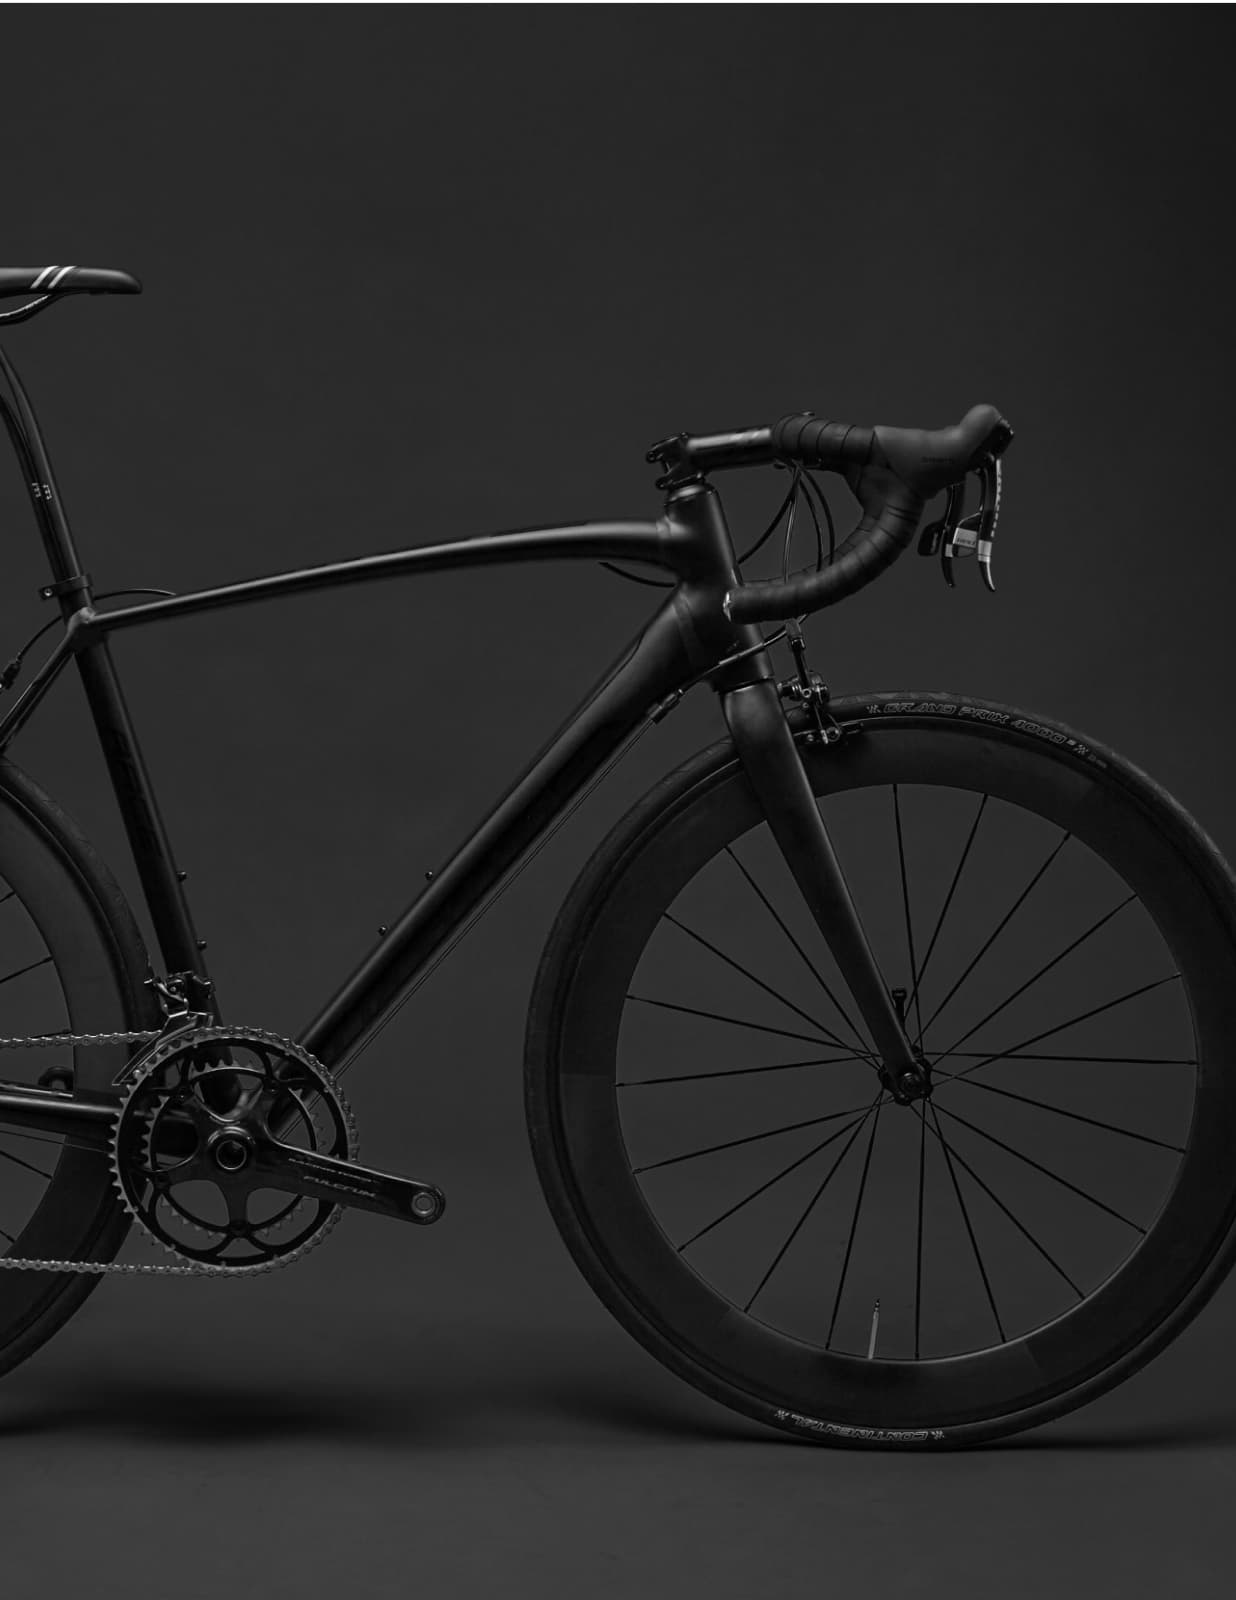
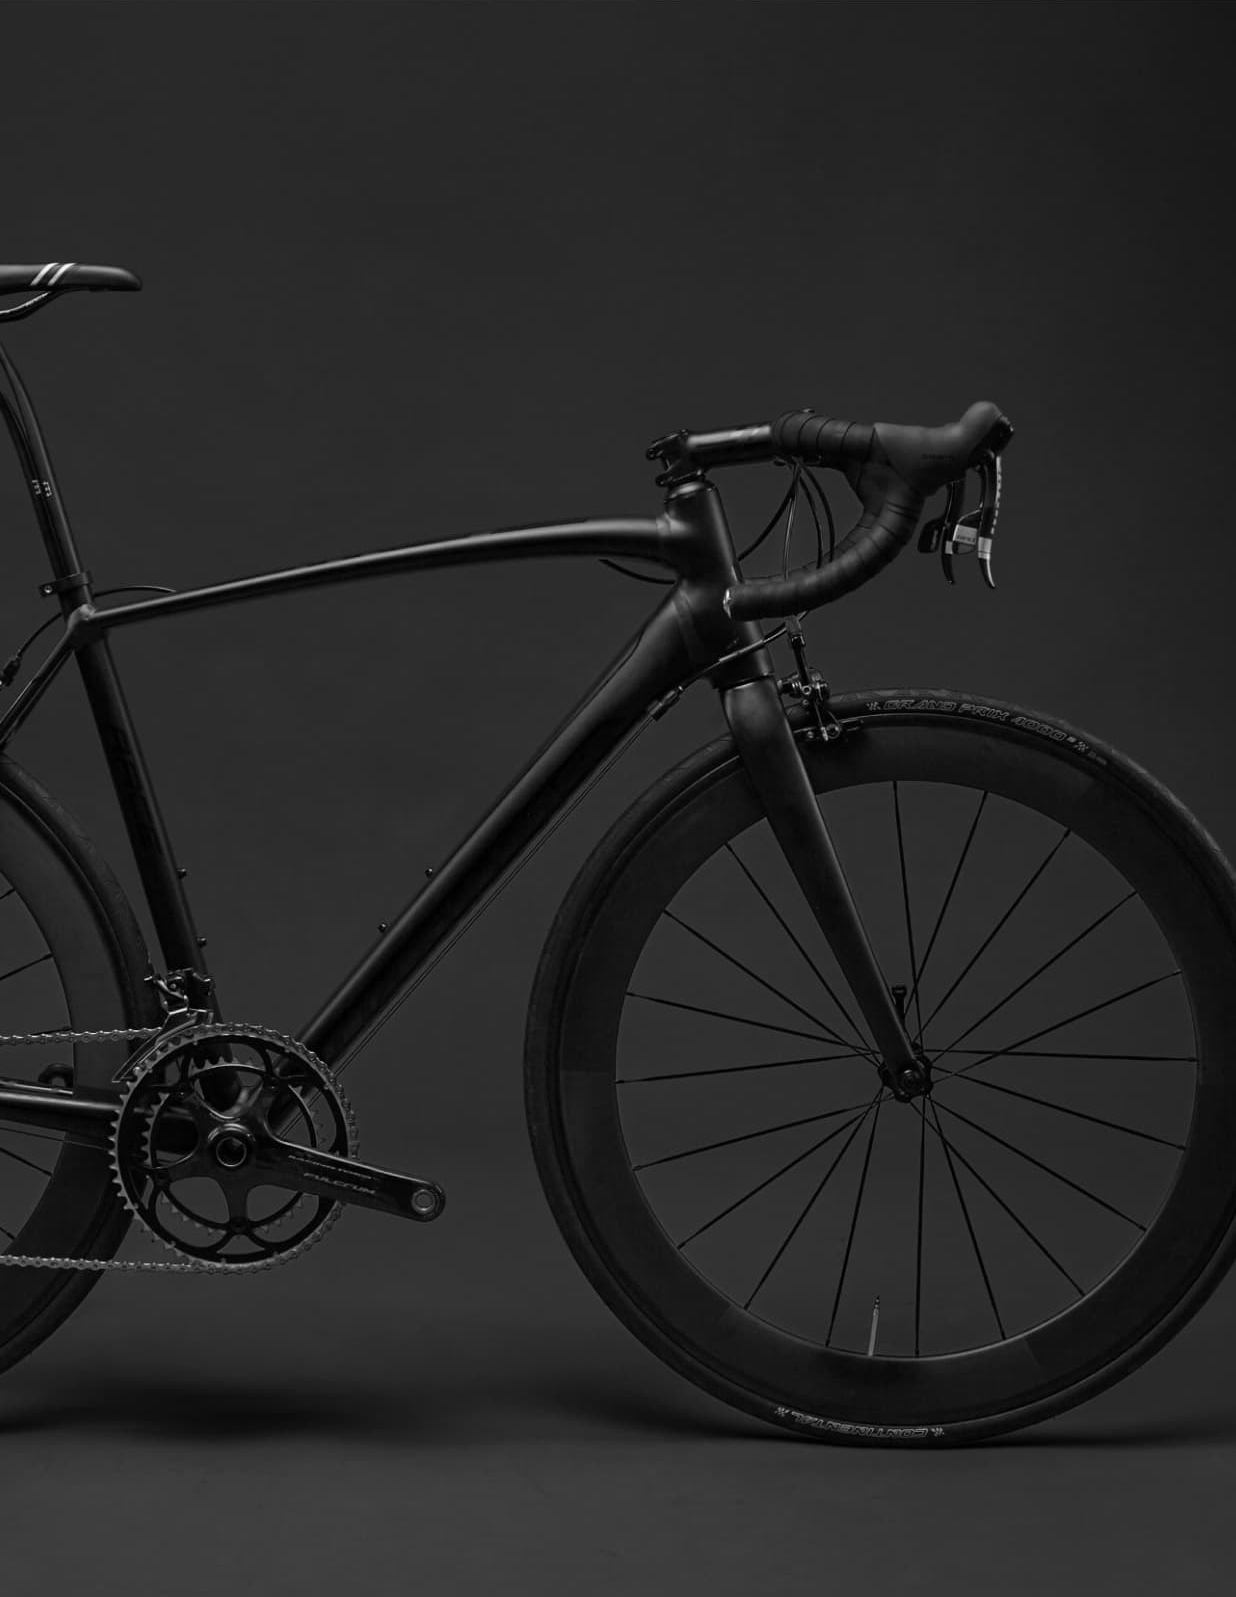
1006 Box Shadow

diff --git a/css/style.css b/css/style.css
@@ -1,20 +1,32 @@
 body {
   margin: 0px;
   font-family: Arial, Helvetica, sans-serif;
+  padding-bottom: 600px;
+}
+
+h1,
+ul,
+p {
+  margin: 0px;
+}
+
+ul {
+  padding: 0px;
+  list-style: none;
 }
 
 a {
   text-decoration: none;
+  color: inherit;
+}
+
+img {
+  width: 100%;
+  display: block;
 }
 
 .header-bg {
   background-color: #000;
-}
-
-ul {
-  margin: 0px;
-  padding: 0px;
-  list-style: none;
 }
 
 .header {
@@ -88,4 +100,70 @@ ul {
     padding: 8px 12px;
     font-size: 14px;
   }
+}
+
+.introducao-bg {
+  background: #000;
+  color: #fff;
+  box-shadow: inset 0 -120px #fff;
+}
+
+.introducao {
+  display: grid;
+  grid-template-columns: 1fr 1fr;
+  gap: 0 40px;
+  max-width: 1200px;
+  box-sizing: border-box;
+  padding-left: 20px;
+  padding-right: 20px;
+  margin-left: auto;
+  margin-right: auto;
+}
+
+.introducao-conteudo {
+  align-self: end;
+  padding-bottom: 200px;
+}
+
+.introducao img {
+  height: 100%;
+  object-fit: cover;
+  border-radius: 4px;
+}
+
+.introducao h1 {
+  margin-bottom: 32px;
+  font-size: 64px;
+  line-height: 1.125;
+}
+
+.introducao h1 span {
+  color: #ffbb00;
+}
+
+.introducao p {
+  margin-bottom: 20px;
+  font-family: Roboto;
+  font-style: normal;
+  font-weight: normal;
+  font-size: 24px;
+  line-height: 1.5;
+  color: #b3b3b3;
+}
+
+.introducao a {
+  display: inline-block;
+  padding: 16px 32px;
+  background: linear-gradient(#ffbf00, #f2a60c);
+  border-radius: 5px;
+  box-shadow: 0 1px 2px rgba(0, 0, 0, 0.1);
+  text-transform: uppercase;
+  color: #332200;
+  font-size: 18px;
+  line-height: 1.33;
+  font-weight: bold;
+}
+
+.introducao a:hover {
+  background: linear-gradient(#ffb60d, #e59317);
 }

diff --git a/index.html b/index.html
@@ -24,6 +24,18 @@
       </nav>
     </div>
   </header>
+  <main class="introducao-bg">
+    <div class="introducao">
+      <div class="introducao-conteudo">
+        <h1>Bicicletas feitas sob medida<span>.</span></h1>
+        <p>Bicicletas elétricas de alta precisão e qualidade, feitas sobmedida para o cliente. Explore o mundo na sua velocidade com a Bikecraft.</p>
+        <a href="./bicicletas.html">Escolha a sua</a>
+      </div>
+      <div>
+        <img src="./img/fotos/foto-intro.jpg" alt="Bicicleta elétrica preta.">
+      </div>
+    </div>
+  </main>
 </body>
 
 </html>
